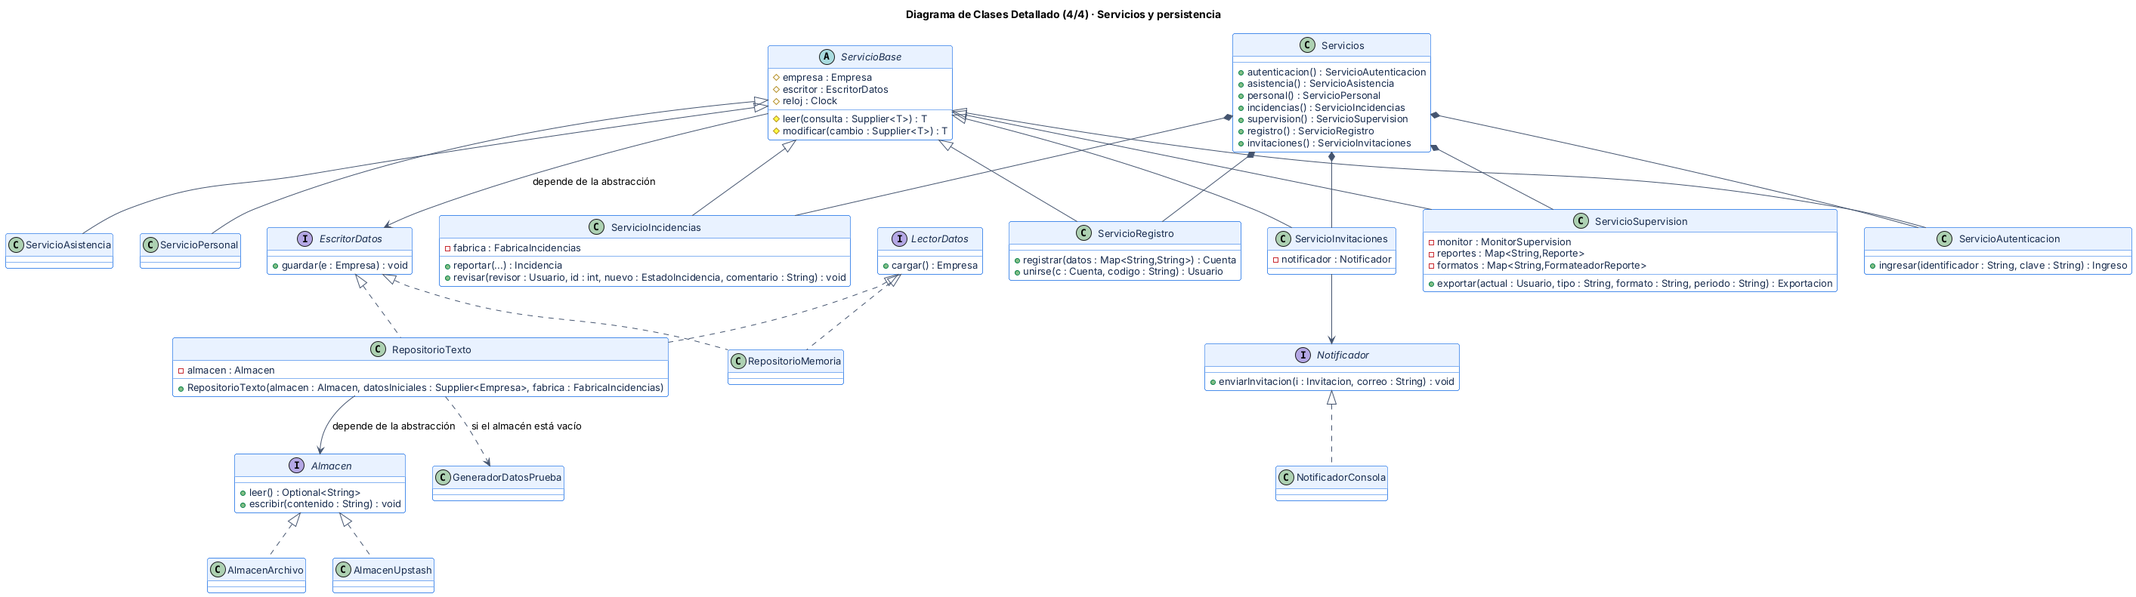
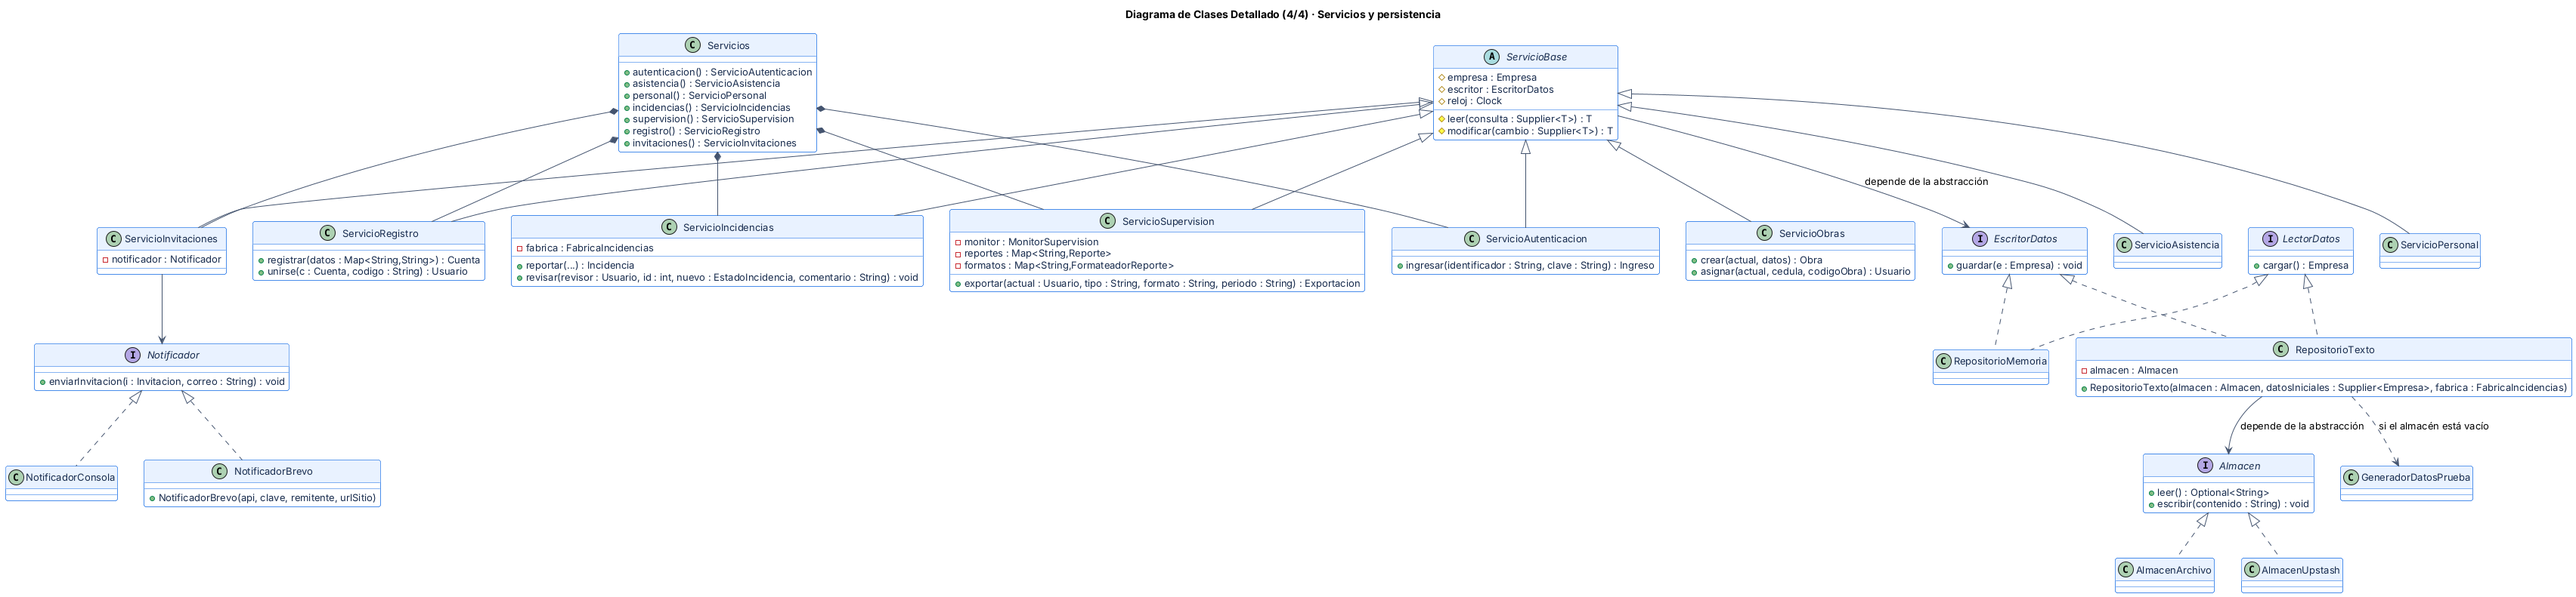
docs: horas extra, obras, correo con Brevo y hora de Venezuela
README (funciones, reglas y API), SOLID (NotificadorBrevo como ejemplo de DIP
y OCP), guía de despliegue (Brevo y ZONA) y diagrama de servicios.

Claude-Session: https://claude.ai/code/session_01KyDqg7X6ZwNdjfXwPa2YpY

diff --git a/README.md b/README.md
@@ -2,7 +2,7 @@
 
 [![CI](https://github.com/diavolo34/Proyecto-Poo/actions/workflows/ci.yml/badge.svg)](https://github.com/diavolo34/Proyecto-Poo/actions/workflows/ci.yml)
 ![Java](https://img.shields.io/badge/Java-17%2B-orange?logo=openjdk)
-![Pruebas](https://img.shields.io/badge/JUnit%205-26%20pruebas-brightgreen)
+![Pruebas](https://img.shields.io/badge/JUnit%205-39%20pruebas-brightgreen)
 ![Arquitectura](https://img.shields.io/badge/arquitectura-MVC%20%2B%20SOLID-blue)
 ![Dependencias](https://img.shields.io/badge/dependencias-0-brightgreen)
 [![Demo en vivo](https://img.shields.io/badge/demo-en%20vivo-0052CC?logo=netlify)](https://startling-toffee-914e34.netlify.app)
@@ -36,14 +36,17 @@ herencia, polimorfismo, interfaces, composición y los principios **SOLID**, en 
 |-----|-----------------|
 | **Visitante** | Ver la portada, consultar a **Arqui**, el asistente virtual, y **crear su cuenta** con correo, nombre, apellido, cédula o DNI y teléfono. |
 | **Empleado** | Unirse a la empresa con un **código de invitación**, marcar entrada y salida (puntualidad con 10 min de tolerancia), ver su historial y **reportar incidencias**. |
-| **Supervisor** | Todo lo anterior + **tablero Kanban** para aprobar o rechazar las incidencias de su equipo, **alertas automáticas**, **estadísticas** y **reportes** en CSV o texto. |
-| **Jefe** | Todo lo anterior para toda la empresa + **gestionar al personal** y **crear invitaciones** de un solo uso con rol, supervisor y obra. |
+| **Supervisor** | Todo lo anterior + **tablero Kanban** para aprobar o rechazar las incidencias de su equipo, **aprobar horas extra**, **alertas automáticas** (de la más antigua a la más reciente), **tabla de puntualidad** con horas trabajadas, **gestionar obras** y **reportes** en CSV o texto. |
+| **Jefe** | Todo lo anterior para toda la empresa + **gestionar al personal** y **crear invitaciones** de un solo uso con rol, supervisor y obra, que se **envían por correo**. |
 
 Reglas destacadas:
 - Un **reposo médico aprobado** justifica la falta; si está pendiente o rechazado, el día cuenta como ausencia.
 - Las **alertas** se generan solas: 3 o más retardos en la semana, faltas sin justificar e incidencias sin resolver por más de 48 h.
 - Los **permisos se validan en el servidor**: un supervisor solo ve y revisa a su equipo.
 - Las claves se guardan como **resumen SHA-256 con sal**, nunca en texto plano.
+- Las **horas extra** se calculan solas (lo que pasa de la jornada o un día libre completo) y solo cuentan al aprobarse.
+- El **Historial** de cada persona reúne su asistencia y sus incidencias; las faltas se cuentan desde su ingreso.
+- La **cédula** nueva solo admite números; la hora es la de Venezuela aunque el servidor esté en UTC.
 
 ## Arquitectura
 
@@ -157,11 +160,13 @@ con códigos 400, 401, 403, 404 o 409.
 | `PUT` | `/api/incidencias/{id}/revision` | Supervisor del afectado · Jefe |
 | `GET` | `/api/estadisticas` · `/api/supervision/alertas` · `/api/reportes/{tipo}` | Supervisor (su equipo) · Jefe |
 | `GET` `POST` `PUT` `DELETE` | `/api/usuarios[/{cedula}]` · `GET /api/personal/opciones` | Jefe (Supervisor: solo lectura de su equipo) |
-| `GET` `POST` `DELETE` | `/api/invitaciones[/{codigo}]` | Jefe |
+| `GET` `PUT` | `/api/horas-extra` · `/api/horas-extra/{cedula}/{fecha}` | Supervisor (su equipo) · Jefe |
+| `GET` `POST` `PUT` `DELETE` | `/api/obras[/{codigo}]` · `PUT /api/usuarios/{cedula}/obra` | Supervisor · Jefe |
+| `GET` `POST` `DELETE` | `/api/invitaciones[/{codigo}]` · `POST /api/invitaciones/{codigo}/enviar` | Jefe |
 
 ## Calidad
 
-- **CI en GitHub Actions:** compila con `-Xlint:all -Werror`, ejecuta las **26 pruebas JUnit 5** y una prueba de humo de la API.
+- **CI en GitHub Actions:** compila con `-Xlint:all -Werror`, ejecuta las **39 pruebas JUnit 5** y una prueba de humo de la API.
 - **Pruebas** del modelo, la persistencia y los servicios con reloj fijo; se comprobó que detectan errores introducidos a propósito.
 - Verificado en la interfaz real: recorridos de la web con Playwright, de Swing en pantalla virtual, y despliegue con Docker y CORS.
 

diff --git a/docs/despliegue.md b/docs/despliegue.md
@@ -49,6 +49,24 @@ Ambos implementan la interfaz `Almacen`, así que el resto del sistema no cambia
 
 Sin esas variables (por ejemplo, en NetBeans) los datos se guardan en `datos_construtrack.txt`.
 
+### Invitaciones por correo con Brevo (gratis)
+
+Render gratis bloquea el envío por SMTP, así que el correo sale por la **API HTTP de Brevo** (`NotificadorBrevo`).
+
+1. Crea una cuenta en https://www.brevo.com (plan Free: 300 correos al día, sin tarjeta).
+2. **Senders, Domains & Dedicated IPs → Senders → Add a sender**: agrega tu correo (por ejemplo, tu Gmail) y confírmalo
+   con el enlace que te llega.
+3. **SMTP & API → API Keys → Generate a new API key** y cópiala.
+4. En Render → `construtrack-api` → **Environment** agrega `BREVO_API_KEY` (la clave) y `CORREO_REMITENTE`
+   (el correo verificado del paso 2) → **Save changes**.
+
+Al arrancar, el registro dice `correo con Brevo`. En **Invitaciones** el Jefe escribe el correo de la persona y le llega
+un mensaje con el código y un botón para crear su cuenta. Sin estas variables, el envío solo se registra en la consola.
+
+### Hora de Venezuela
+
+`ZONA=America/Caracas` (ya en `render.yaml`): el servidor está en UTC y sin esto las entradas quedarían 4 h adelantadas.
+
 ## 2. Conectar Netlify con GitHub (para que se actualice solo)
 
 Tu sitio actual se subió arrastrando una carpeta, así que no se actualiza con los cambios del repositorio.

diff --git a/docs/diseno/solid.md b/docs/diseno/solid.md
@@ -99,8 +99,10 @@ abstract class ServicioBase {
 - En producción `App` inyecta `RepositorioTexto` con un `Almacen` (archivo en NetBeans, Upstash en Render); en las pruebas, `RepositorioMemoria` (`ServiciosTest` comprueba que
   se guardó sin tocar el disco).
 - `MonitorSupervision(List<ReglaAlerta> reglas)` recibe sus reglas; las pruebas le pasan reglas con otros umbrales.
-- `ServicioInvitaciones` depende de `Notificador`. Hoy la implementación es `NotificadorConsola`; un `NotificadorCorreo`
-  (SMTP) se conectaría sin cambiar el servicio, igual que el `IMensajero` del material.
+- `ServicioInvitaciones` depende de `Notificador`, igual que el `IMensajero` del material. Hay dos implementaciones:
+  `NotificadorConsola` (en NetBeans, solo registra) y `NotificadorBrevo` (en el servidor publicado, envía el correo
+  real por la API de Brevo). Se agregó el correo real **sin cambiar una línea del servicio**: `App` elige cuál inyectar
+  según la configuración (DIP y, a la vez, OCP).
 - El reloj (`java.time.Clock`) también se inyecta: las pruebas usan `Clock.fixed` y obtienen siempre el mismo resultado.
 
 `App.main` es la **raíz de composición**: el único lugar donde se eligen las clases concretas.

diff --git a/docs/diseno/mvc.md b/docs/diseno/mvc.md
@@ -57,4 +57,4 @@ La vista (`PanelIncidencias`) solo crea los componentes y ofrece *getters*; nunc
 - **Independencia:** se reescribió por completo la vista web (Sprint 5) sin tocar una línea del modelo.
 - **Reutilización:** las reglas (por ejemplo, «solo el supervisor del empleado puede aprobar») están una sola vez,
   en `Supervisor.puedeRevisar`, y las dos vistas las respetan.
-- **Pruebas:** el modelo y los servicios se prueban sin interfaz gráfica (`ConstruTrack/test`, 26 pruebas JUnit).
+- **Pruebas:** el modelo y los servicios se prueban sin interfaz gráfica (`ConstruTrack/test`, 39 pruebas JUnit).

diff --git a/ConstruTrack/README.md b/ConstruTrack/README.md
@@ -14,7 +14,7 @@ separados por coma). Argumento `--sin-ventana` para levantar solo el servidor.
 
 ## Pruebas
 
-`test/construtrack/` contiene 26 pruebas JUnit 5. En NetBeans: *Test Project* (Alt+F6) con la biblioteca **JUnit 5**.
+`test/construtrack/` contiene 39 pruebas JUnit 5. En NetBeans: *Test Project* (Alt+F6) con la biblioteca **JUnit 5**.
 Por terminal:
 
 ```bash
